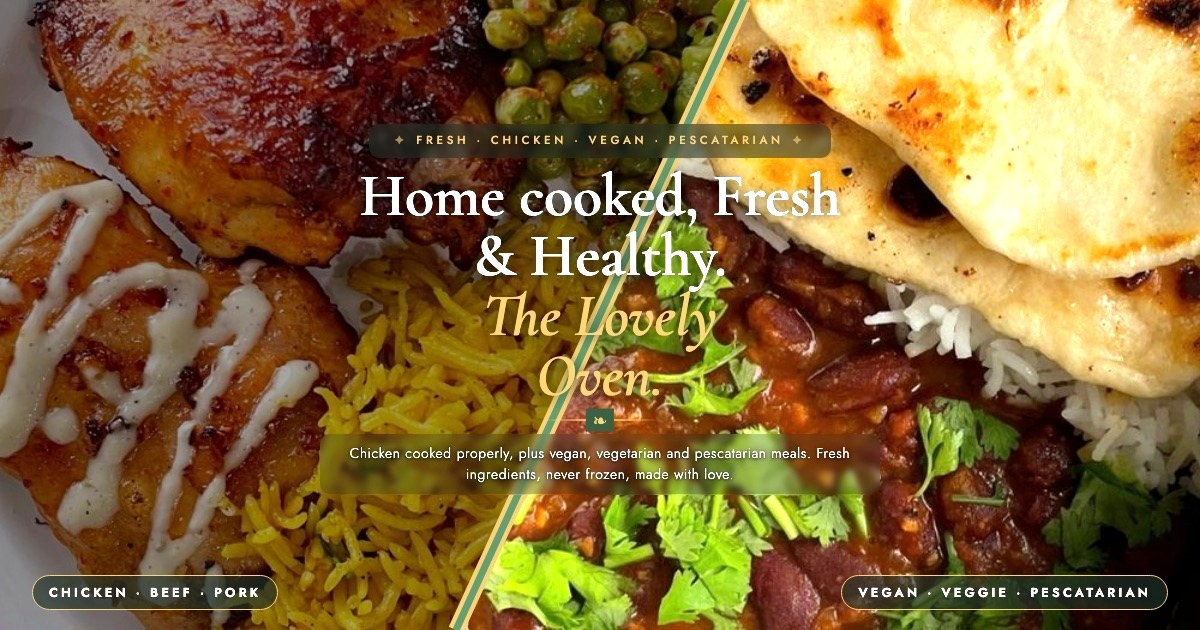
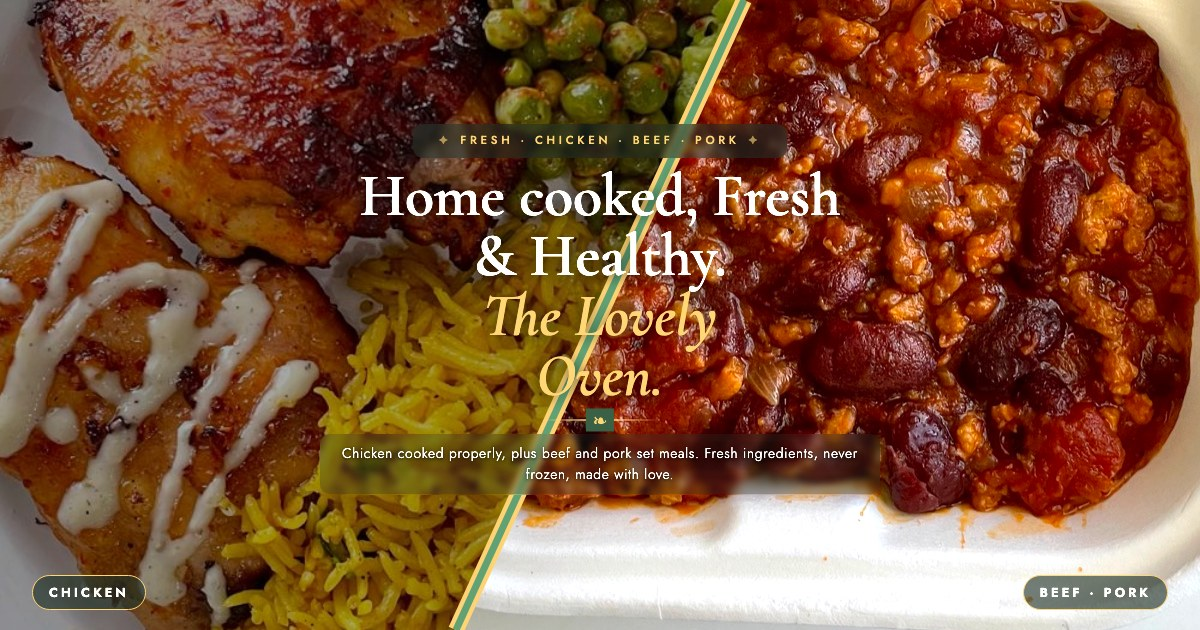
Remove vegan: dishes, order section, gallery photos, hero split and copy; new share image

diff --git a/index.html b/index.html
@@ -4,12 +4,12 @@
   <meta charset="UTF-8">
   <meta name="viewport" content="width=device-width, initial-scale=1.0">
   <title>Lovely Oven — Home-cooked food in Danang &amp; Hoi An</title>
-  <meta name="description" content="Fresh, home-cooked chicken, beef and vegan meals from our home oven in Danang. Free delivery in the FPT area; order on Grab elsewhere in Danang and Hoi An.">
+  <meta name="description" content="Fresh, home-cooked chicken, beef and pork meals from our home oven in Danang. Free delivery in the FPT area; order on Grab elsewhere in Danang and Hoi An.">
   <link rel="canonical" href="https://www.lovelyoven.com/">
   <meta property="og:type" content="website">
   <meta property="og:site_name" content="Lovely Oven">
   <meta property="og:title" content="Lovely Oven — Home-cooked food in Danang &amp; Hoi An">
-  <meta property="og:description" content="Fresh, home-cooked chicken, beef and vegan meals from our home oven in Danang. Free delivery in the FPT area; order on Grab elsewhere in Danang and Hoi An.">
+  <meta property="og:description" content="Fresh, home-cooked chicken, beef and pork meals from our home oven in Danang. Free delivery in the FPT area; order on Grab elsewhere in Danang and Hoi An.">
   <meta property="og:url" content="https://www.lovelyoven.com/">
   <meta property="og:image" content="https://www.lovelyoven.com/img/social/og-share.jpg">
   <meta property="og:image:width" content="1200">
@@ -57,10 +57,10 @@
 <section class="hero" id="top">
   <div class="hero-split" aria-hidden="true">
     <div class="hero-half hero-half-chicken"></div>
-    <div class="hero-half hero-half-veg"></div>
+    <div class="hero-half hero-half-beef"></div>
     <svg class="hero-split-line" viewBox="0 0 100 100" preserveAspectRatio="none"><line class="split-gold" x1="62" y1="0" x2="38" y2="100" vector-effect="non-scaling-stroke"/><line class="split-green" x1="62" y1="0" x2="38" y2="100" vector-effect="non-scaling-stroke"/></svg>
-    <span class="hero-split-label hero-split-label-a">Chicken · Beef · Pork</span>
-    <span class="hero-split-label hero-split-label-b">Vegan · Veggie · Pescatarian</span>
+    <span class="hero-split-label hero-split-label-a">Chicken</span>
+    <span class="hero-split-label hero-split-label-b">Beef · Pork</span>
   </div>
   <div class="hero-bg"></div>
 
@@ -101,14 +101,14 @@
     <ellipse cx="26" cy="330" rx="6" ry="2" fill="#3A5C45"/>
   </svg>
 
-  <p class="hero-eyebrow">Fresh · Chicken · Vegan · Pescatarian</p>
+  <p class="hero-eyebrow">Fresh · Chicken · Beef · Pork</p>
   <h1 class="hero-title">
     Home cooked, Fresh<br>
     <span class="accent-line">&amp; Healthy.</span>
     <span class="highlight">The Lovely<br>Oven.</span>
   </h1>
   <div class="hero-divider"></div>
-  <p class="hero-sub">Chicken cooked properly, plus vegan, vegetarian and pescatarian meals. Fresh ingredients, never frozen, made with love.</p>
+  <p class="hero-sub">Chicken cooked properly, plus beef and pork set meals. Fresh ingredients, never frozen, made with love.</p>
   <div class="hero-paths">
     <a href="/order" class="path-btn path-btn-meat">Order Now</a>
     <a href="/menu" class="path-btn path-btn-veg">View the Menu</a>
@@ -137,17 +137,14 @@
    <div class="g-row">
     <figure class="g-item"><img src="img/gallery/chicken-meal.jpg" alt="Chicken Thigh Meal"></figure>
     <figure class="g-item"><img src="img/gallery/mushy-peas.jpg" alt="Mushy Peas"></figure>
-    <figure class="g-item"><img src="img/gallery/vegan.jpg" style="object-position:50% 72%" alt="Moong Dal (Vegan)"></figure>
-    <figure class="g-item"><img src="img/gallery/aloo-gobi.jpg" style="object-position:50% 72%" alt="Aloo Gobi (Vegan)"></figure>
+    <figure class="g-item"><img src="img/gallery/gluten-free.jpg" style="object-position:50% 62%" alt="Chilli Con Carne"></figure>
    </div>
    <div class="g-row">
-    <figure class="g-item"><img src="img/gallery/gluten-free.jpg" style="object-position:50% 62%" alt="Chilli Con Carne"></figure>
-    <figure class="g-item"><img src="img/gallery/raja-masala.jpg" style="object-position:50% 68%" alt="Raja Masala (Vegan)"></figure>
     <figure class="g-item"><img src="img/gallery/wedges.jpg" alt="Potato Wedges"></figure>
+    <figure class="g-item fit soft"><img src="img/gallery/lasagne.jpg" style="object-fit:contain" alt="Lasagne"></figure>
    </div>
    <div class="g-row">
     <figure class="g-item"><img src="img/gallery/coleslaw.jpg" alt="Coleslaw"></figure>
-    <figure class="g-item fit soft"><img src="img/gallery/lasagne.jpg" style="object-fit:contain" alt="Lasagne"></figure>
     <figure class="g-item"><img src="img/gallery/beef-ragout.jpg" alt="Beef Ragout"></figure>
     <figure class="g-item fit" style="--bg:url('img/gallery/pre-order.jpg')"><img src="img/gallery/pre-order.jpg" style="object-fit:contain" alt="Chicken Pre-Order"></figure>
    </div>

diff --git a/social.html b/social.html
@@ -91,16 +91,13 @@
     <div class="g-row">
       <a class="g-item" href="https://www.instagram.com/lovelyoven/" target="_blank" rel="noopener" aria-label="Chicken thigh meal on Instagram"><img src="img/gallery/chicken-meal.jpg" alt="Chicken thigh meal" loading="lazy"></a>
       <a class="g-item" href="https://www.instagram.com/lovelyoven/" target="_blank" rel="noopener" aria-label="Chicken pre-order boxes on Instagram"><img src="img/gallery/pre-order.jpg" alt="Chicken pre-order boxes" loading="lazy"></a>
-      <a class="g-item" href="https://www.instagram.com/lovelyoven/" target="_blank" rel="noopener" aria-label="Moong dal on Instagram"><img src="img/gallery/vegan.jpg" alt="Moong dal" loading="lazy"></a>
-      <a class="g-item" href="https://www.instagram.com/lovelyoven/" target="_blank" rel="noopener" aria-label="Aloo gobi on Instagram"><img src="img/gallery/aloo-gobi.jpg" alt="Aloo gobi" loading="lazy"></a>
-    </div>
-    <div class="g-row">
       <a class="g-item" href="https://www.instagram.com/lovelyoven/" target="_blank" rel="noopener" aria-label="Chilli con carne on Instagram"><img src="img/gallery/gluten-free.jpg" alt="Chilli con carne" loading="lazy"></a>
-      <a class="g-item" href="https://www.instagram.com/lovelyoven/" target="_blank" rel="noopener" aria-label="Raja masala on Instagram"><img src="img/gallery/raja-masala.jpg" alt="Raja masala" loading="lazy"></a>
-      <a class="g-item" href="https://www.instagram.com/lovelyoven/" target="_blank" rel="noopener" aria-label="Potato wedges on Instagram"><img src="img/gallery/wedges.jpg" alt="Potato wedges" loading="lazy"></a>
     </div>
     <div class="g-row">
+      <a class="g-item" href="https://www.instagram.com/lovelyoven/" target="_blank" rel="noopener" aria-label="Potato wedges on Instagram"><img src="img/gallery/wedges.jpg" alt="Potato wedges" loading="lazy"></a>
       <a class="g-item" href="https://www.instagram.com/lovelyoven/" target="_blank" rel="noopener" aria-label="Lasagne on Instagram"><img src="img/gallery/lasagne.jpg" alt="Lasagne" loading="lazy"></a>
+    </div>
+    <div class="g-row">
       <a class="g-item" href="https://www.instagram.com/lovelyoven/" target="_blank" rel="noopener" aria-label="Mushy peas on Instagram"><img src="img/gallery/mushy-peas.jpg" alt="Mushy peas" loading="lazy"></a>
       <a class="g-item" href="https://www.instagram.com/lovelyoven/" target="_blank" rel="noopener" aria-label="Beef ragout on Instagram"><img src="img/gallery/beef-ragout.jpg" alt="Beef ragout" loading="lazy"></a>
       <a class="g-item" href="https://www.instagram.com/lovelyoven/" target="_blank" rel="noopener" aria-label="Coleslaw on Instagram"><img src="img/gallery/coleslaw.jpg" alt="Coleslaw" loading="lazy"></a>

diff --git a/css/styles.css b/css/styles.css
@@ -1590,7 +1590,7 @@ footer {
 .diet-note { text-align: center; margin-top: 1.75rem; font-size: 0.9rem; color: var(--text-muted); }
 @media (max-width: 600px) { .diet-section { padding: 3.5rem 1.25rem; } }
 
-/* ── Hero split: chicken top-left, plant-based bottom-right ── */
+/* ── Hero split: chicken top-left, beef and pork bottom-right ── */
 .hero-split { position: absolute; inset: 0; }
 .hero-half { position: absolute; inset: 0; background-size: cover; background-position: center; }
 .hero-half-chicken {
@@ -1600,9 +1600,9 @@ footer {
   background-position: 50% calc(50% + 5vh);
   clip-path: polygon(0 6vh, calc(62% + 16vw) 6vh, calc(38% + 16vw) 100%, 0 100%);
 }
-.hero-half-veg {
-  background-image: url('../img/hero/veg-hero.jpg');
-  background-position: 0% 40%;
+.hero-half-beef {
+  background-image: url('../img/hero/beef-hero.jpg');
+  background-position: 50% 94%;
   /* shifted 20vw right so the dish sits further right; clip compensates to keep the divider put */
   inset: 0 -20vw 0 20vw;
   clip-path: polygon(calc(62% - 20vw) 0, 100% 0, 100% 100%, calc(38% - 20vw) 100%);
@@ -1628,7 +1628,7 @@ footer {
 .hero-eyebrow, .hero-title, .hero-divider, .hero-sub, .hero-cta, .diet-pills { position: relative; z-index: 2; }
 .hero-title, .hero-sub, .hero-eyebrow { text-shadow: 0 2px 14px rgba(0,0,0,0.65); }
 .hero-half::after { content: ''; position: absolute; inset: 0; background: rgba(0,0,0,0.5); }
-.hero-half-veg::after { background: rgba(0,0,0,0.1); }
+.hero-half-beef::after { background: rgba(0,0,0,0.1); }
 .diet-section-alt { background: var(--olive); }
 .diet-grid-3 { grid-template-columns: repeat(auto-fit, minmax(260px, 1fr)); }
 .diet-tag-warm { background: #A0522D; }
@@ -1661,7 +1661,7 @@ footer {
     background-position: 50% 50%;
     clip-path: polygon(0 6vh, calc(62% + 6vw) 6vh, calc(38% + 6vw) 100%, 0 100%);
   }
-  .hero-half-veg {
+  .hero-half-beef {
     inset: 0 -8vw 0 8vw;
     clip-path: polygon(calc(62% - 8vw) 0, 100% 0, 100% 100%, calc(38% - 8vw) 100%);
   }
@@ -1728,7 +1728,7 @@ footer {
 .page-hero::before { content: ''; position: absolute; inset: 0; background: rgba(20,32,25,0.62); }
 .page-hero > * { position: relative; }
 .page-hero-meat { background-image: url('../img/hero/chicken-hero.jpg'); }
-.page-hero-veg { background-image: url('../img/hero/veg-hero.jpg'); }
+.page-hero-veg { background-image: url('../img/hero/beef-hero.jpg'); }
 .page-hero-title {
   font-family: 'Cormorant Garamond', serif; font-weight: 600;
   font-size: clamp(2.6rem, 7vw, 4.5rem); line-height: 1.05; margin: 0.4rem 0 1rem; color: #fff;

diff --git a/order.html b/order.html
@@ -72,7 +72,7 @@
   </header>
 
   <nav class="o-tabs" aria-label="Menu sections">
-    <a href="#o-chicken">Chicken meal</a><a href="#o-veg">Vegan &amp; vegetarian</a><a href="#o-set">Set meals</a><a href="#o-add">Add-ons</a><a href="#o-box">Boxes to share</a><a href="#o-drinks">Drinks</a>
+    <a href="#o-chicken">Chicken meal</a><a href="#o-set">Set meals</a><a href="#o-add">Add-ons</a><a href="#o-box">Boxes to share</a><a href="#o-drinks">Drinks</a>
   </nav>
 
   <div class="o-wrap">
@@ -92,17 +92,6 @@
 
     <div class="o-cols">
     <div class="o-col">
-    <section class="o-sec" id="o-veg"><h2>Vegan &amp; Vegetarian</h2><p class="o-sub">Cooked to order. Pescatarian on request.</p>
-      <div class="o-item" data-group="setmeal" data-value="Aloo Gobi (Vegan)" data-label="Aloo Gobi (Vegan)" data-price="100000">
-        <img class="o-thumb" src="img/dishes/aloo-gobi.jpg" alt="" loading="lazy"><div class="o-info"><strong>Aloo Gobi <em>Vegan</em></strong><span>Potato, cauliflower and peppers in a lightly spiced sauce, with basmati rice.</span></div><span class="o-price">₫100,000</span>
-      </div>
-      <div class="o-item" data-group="setmeal" data-value="Moong Dal (Vegan)" data-label="Moong Dal (Vegan)" data-price="100000">
-        <img class="o-thumb" src="img/dishes/moong-dal.jpg" alt="" loading="lazy"><div class="o-info"><strong>Moong Dal <em>Vegan</em></strong><span>Creamy mung beans, warm spices and a golden turmeric finish.</span></div><span class="o-price">₫100,000</span>
-      </div>
-      <div class="o-item" data-group="setmeal" data-value="Raja Masala (Vegan)" data-label="Raja Masala (Vegan)" data-price="100000">
-        <img class="o-thumb" src="img/dishes/raja-masala.jpg" alt="" loading="lazy"><div class="o-info"><strong>Raja Masala <em>Vegan</em></strong><span>Red kidney beans in a rich, tangy onion-tomato sauce, with rice.</span></div><span class="o-price">₫100,000</span>
-      </div>
-    </section>
     <section class="o-sec" id="o-set"><h2>Set Meals</h2>
       <div class="o-item" data-group="setmeal" data-value="Bolognaise 200g" data-label="Bolognaise 200g (Beef & Pork)" data-price="70000">
         <img class="o-thumb" src="img/menu/bolognaise.jpg" alt="" loading="lazy"><div class="o-info"><strong>Bolognaise 200g</strong><span>Homemade, beef &amp; pork. Add rice +₫10,000.</span></div><span class="o-price">₫70,000</span>
